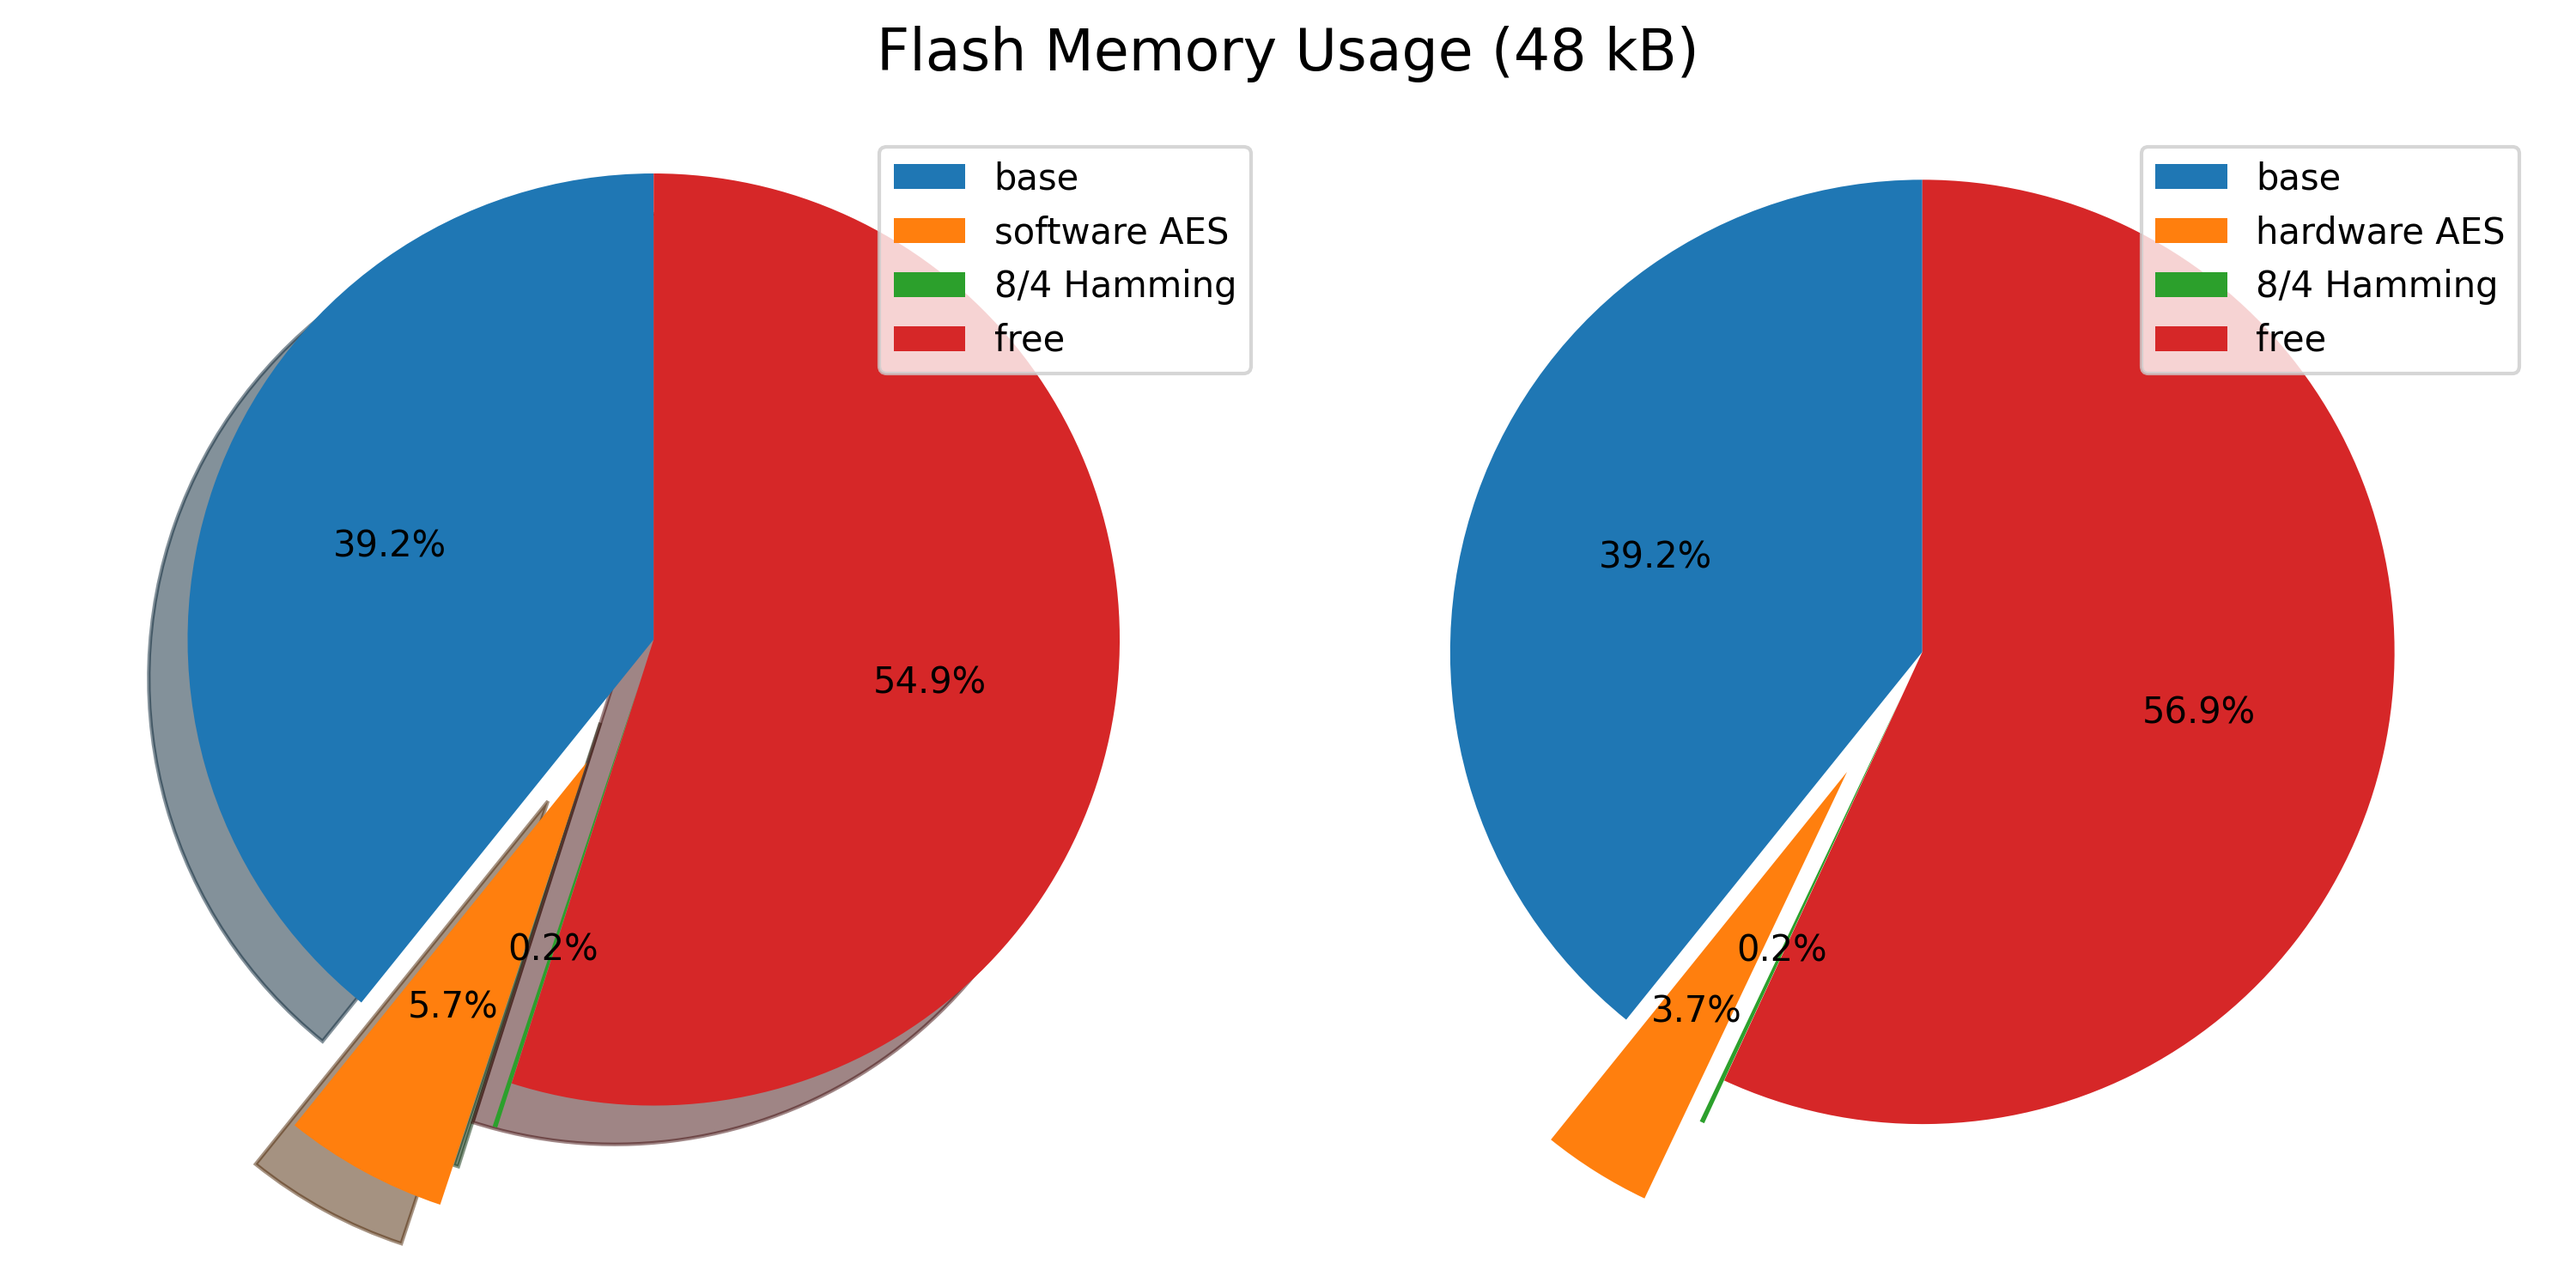
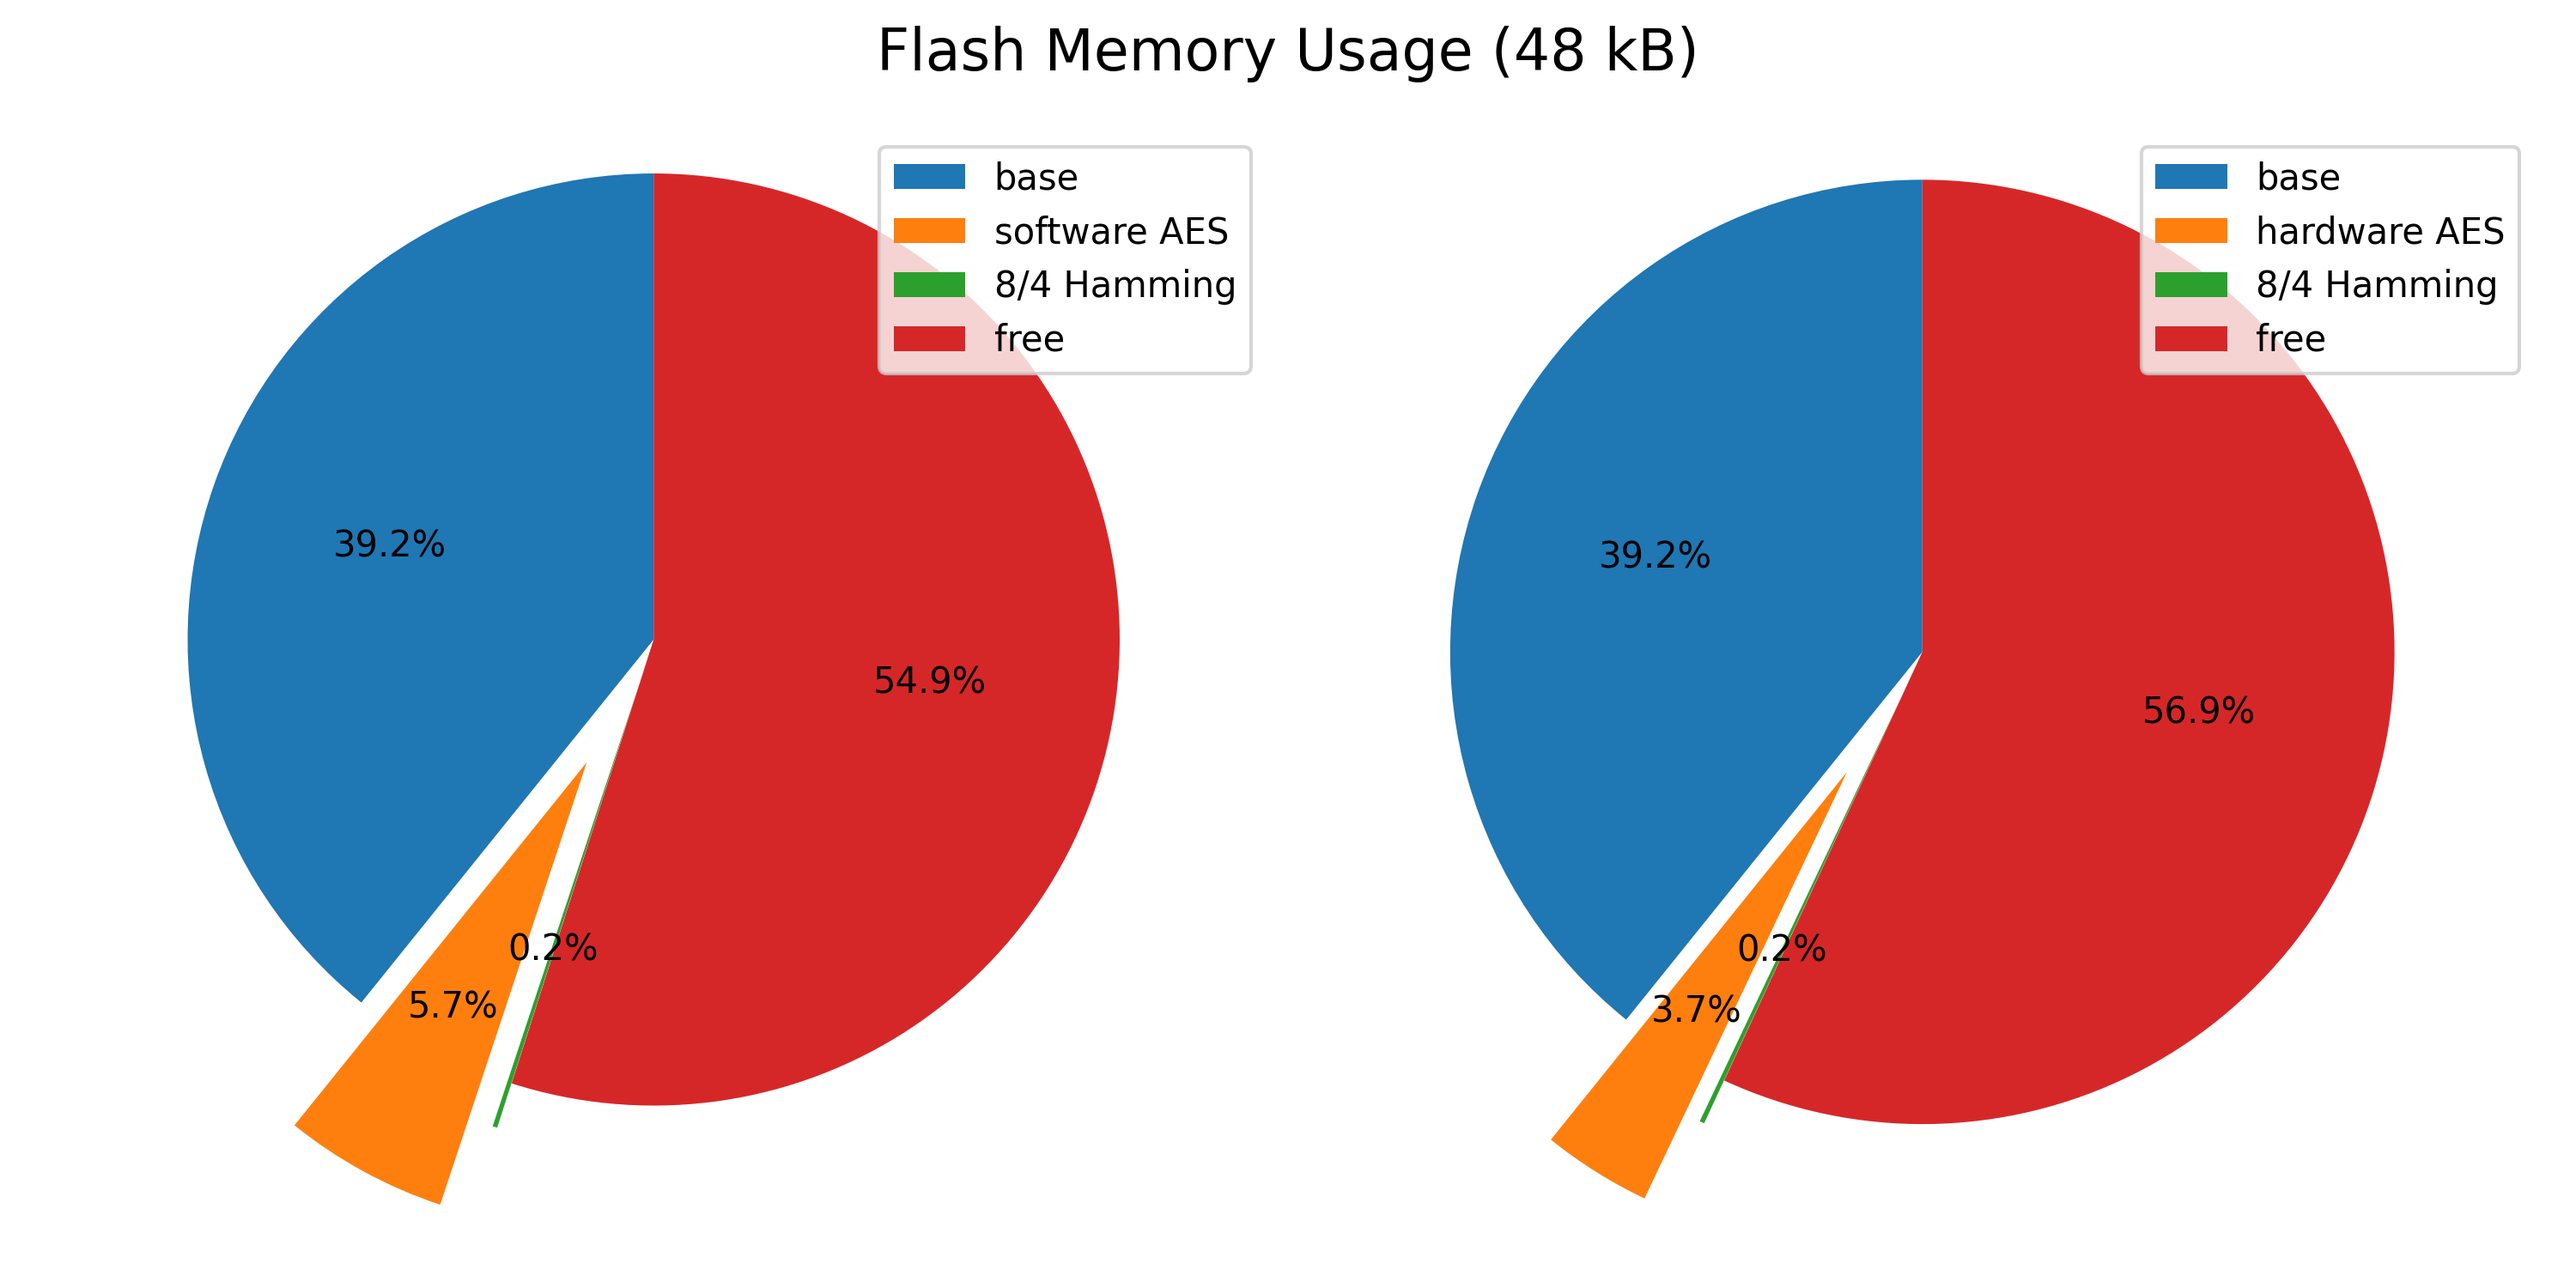
feat((fix)): forgot to remove shadow on both pies

diff --git a/scripts/process-memory-footprint-data.py b/scripts/process-memory-footprint-data.py
@@ -112,6 +112,7 @@ plt.xticks(xticks, [f'{int(x/kB)} kB' for x in xticks])
 # plt.legend(fancybox=False, shadow=True, ncol=5)
 plt.legend()
 plt.tight_layout()
+plt.savefig('../charts/horizontal_bar_chart_of_memory_usage.png', dpi=300)
 plt.show()
 
 #%%
@@ -130,6 +131,8 @@ sizes = [
 ]
 
 
+shadow = False
+
 # complementary pastel colors
 ptgreen = '#b3e2cd'
 ptblue = '#a6cee3'
@@ -139,7 +142,7 @@ ptorange = '#f4cae4'
 ptbrown = '#e6f5c9'
 ptgray = '#f5f5f5'
 
-ax0.pie(sizes, explode=explode, autopct='%1.1f%%', shadow=True, startangle=90)
+ax0.pie(sizes, explode=explode, autopct='%1.1f%%', shadow=shadow, startangle=90)
 ax0.axis('equal')  # Equal aspect ratio ensures that pie is drawn as a circle.
 ax0.legend(labels)
 
@@ -153,11 +156,13 @@ sizes = [
     MAX_FLASH_MEMORY - bytes_flashed['with_hardware_aes_and_8_4_hamming']
 ]
 
-ax1.pie(sizes, explode=explode,  autopct='%1.1f%%', shadow=True, startangle=90)
+ax1.pie(sizes, explode=explode,  autopct='%1.1f%%', shadow=shadow, startangle=90)
 ax1.axis('equal')  # Equal aspect ratio ensures that pie is drawn as a circle.
 ax1.legend(labels)
 
 fig.suptitle('Flash Memory Usage (48 kB)', fontsize=16)
 
 plt.tight_layout()
+plt.savefig('../charts/pie_chart_of_memory_usage.png', dpi=300)
+
 plt.show()
